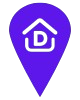
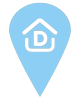
fix: actualiza imagenes de markers y sube cache-buster a v3

diff --git a/apps/mobile/app/(tabs)/index.web.tsx b/apps/mobile/app/(tabs)/index.web.tsx
@@ -110,7 +110,7 @@ const getMainImage = (imgs: PropertyImage[]): string | null => {
 // Cache-Control: immutable (nginx.conf), 1 año. Como el nombre de archivo no
 // cambia cuando se reemplaza la imagen, un ?v= es la única forma de que el
 // navegador pida la versión nueva en vez de servir la vieja desde caché.
-const MARKER_VERSION = '2';
+const MARKER_VERSION = '3';
 const MARKER_URLS: Record<string, string> = {
   sale: `/markers/marker-sale.png?v=${MARKER_VERSION}`,
   rent: `/markers/marker-rent.png?v=${MARKER_VERSION}`,
